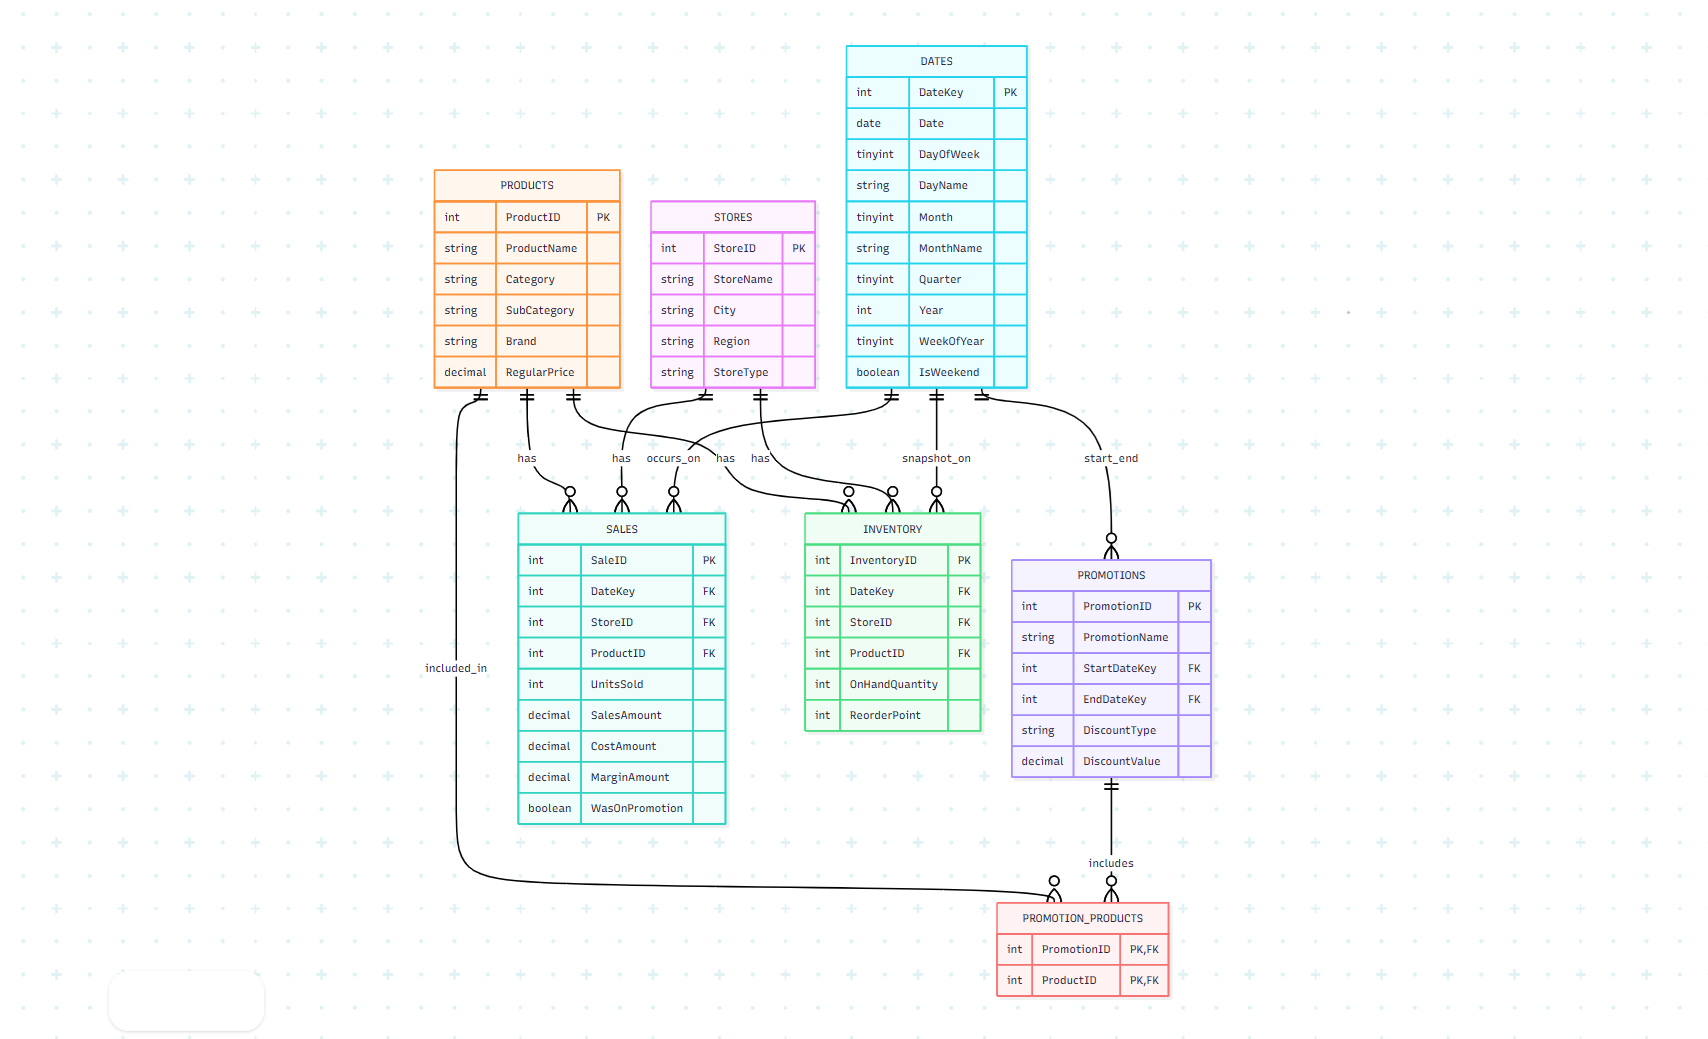
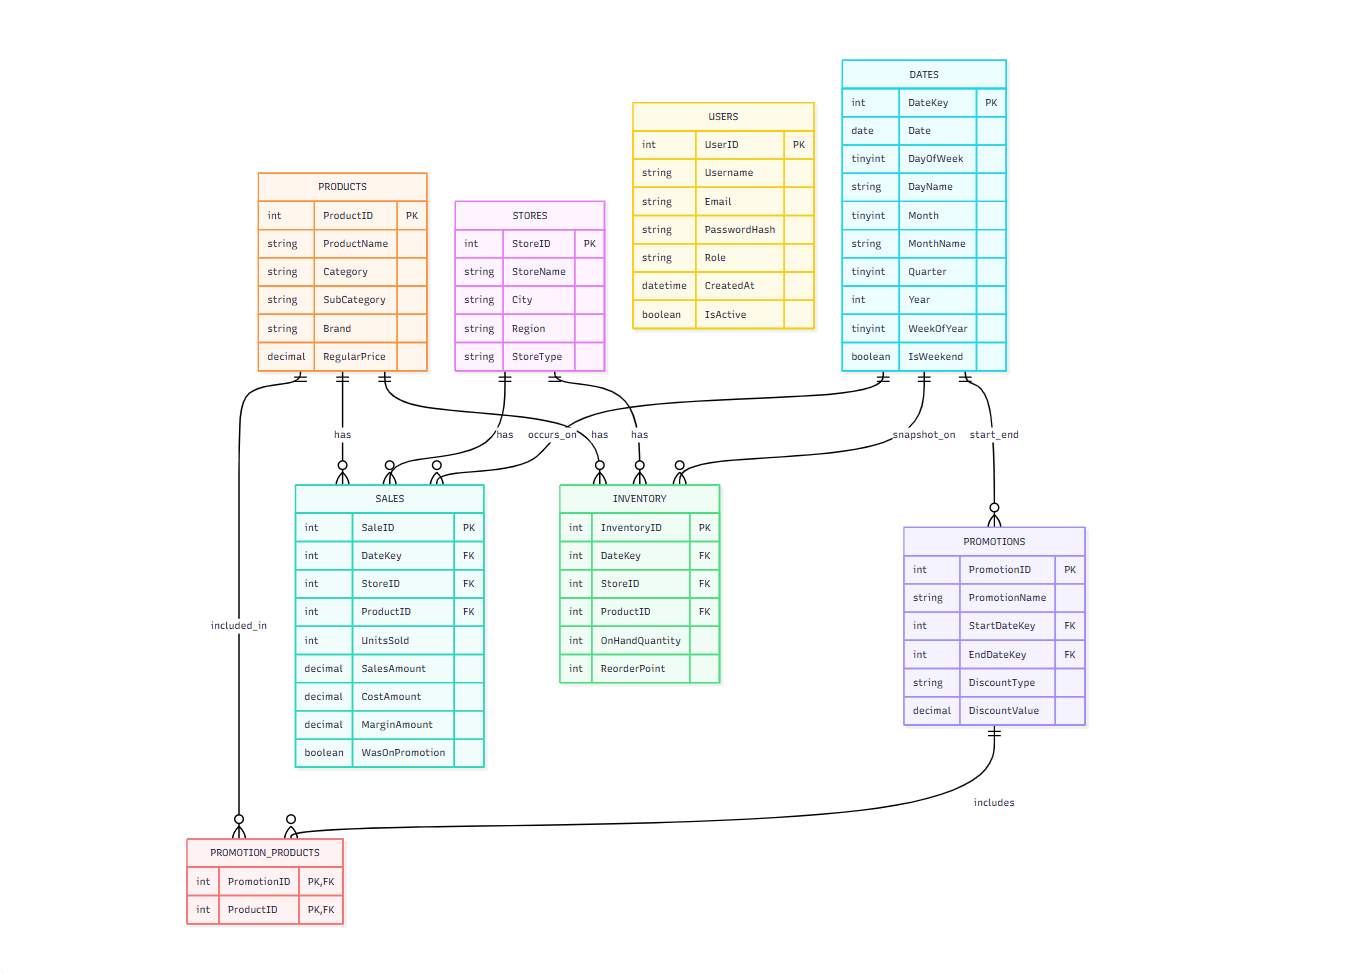
Add Users table and update documentation

diff --git a/docs/data_dictionary.md b/docs/data_dictionary.md
@@ -113,6 +113,25 @@ The dictionary supports explainability for Agentic AI–driven investigation wor
 
 ---
 
+## USERS
+**Purpose:** Stores application user accounts to support authentication and role-based access (minimal usage in Phase 1).
+
+| Column | Description |
+|--------|-------------|
+| UserID | Unique identifier for a system user |
+| Username | Unique login name for the user |
+| Email | User email address (unique) |
+| PasswordHash | Secure hashed representation of the user’s password |
+| Role | Role designation used for access control (e.g., Admin, Analyst) |
+| CreatedAt | Timestamp when the user account was created |
+| IsActive | Indicates whether the user account is active |
+
+**Notes:**
+- Passwords are never stored in plain text; only hashed values are stored.
+- In Phase 1, USERS is independent of the retail investigation schema.
+
+---
+
 ## General Notes
 - All data is synthetic and designed for investigation workflows, not real analytics.
 - Phase 1 focuses on explainability and SQL generation, not business accuracy.

diff --git a/docs/schema.md b/docs/schema.md
@@ -200,6 +200,30 @@ Inventory snapshots to provide stock context during investigations
 
 ---
 
+### 2.8 Users
+**Purpose:**  
+Stores application user accounts to support authentication and role-based access  
+(minimal usage in Phase 1).
+
+**Columns**
+- `UserID` INT **PK** IDENTITY(1,1)
+- `Username` NVARCHAR(100) NOT NULL  
+  **UNIQUE**
+- `Email` NVARCHAR(150) NOT NULL  
+  **UNIQUE**
+- `PasswordHash` NVARCHAR(255) NOT NULL
+- `Role` NVARCHAR(50) NOT NULL
+- `CreatedAt` DATETIME NOT NULL
+- `IsActive` BIT NOT NULL
+
+**Design notes**
+- Passwords are stored as **hashed values only**.
+- This table is independent of retail investigation tables in Phase 1.
+- Role can be used by the API or UI layer to manage access control.
+
+
+---
+
 ## 3) Key Investigation Patterns Supported (Examples)
 
 - **Top-N Products**  

diff --git a/docs/erd.md b/docs/erd.md
@@ -79,3 +79,13 @@ erDiagram
     int OnHandQuantity
     int ReorderPoint
   }
+
+  USERS {
+    int UserID PK
+    string Username
+    string Email
+    string PasswordHash
+    string Role
+    datetime CreatedAt
+    boolean IsActive
+  }
